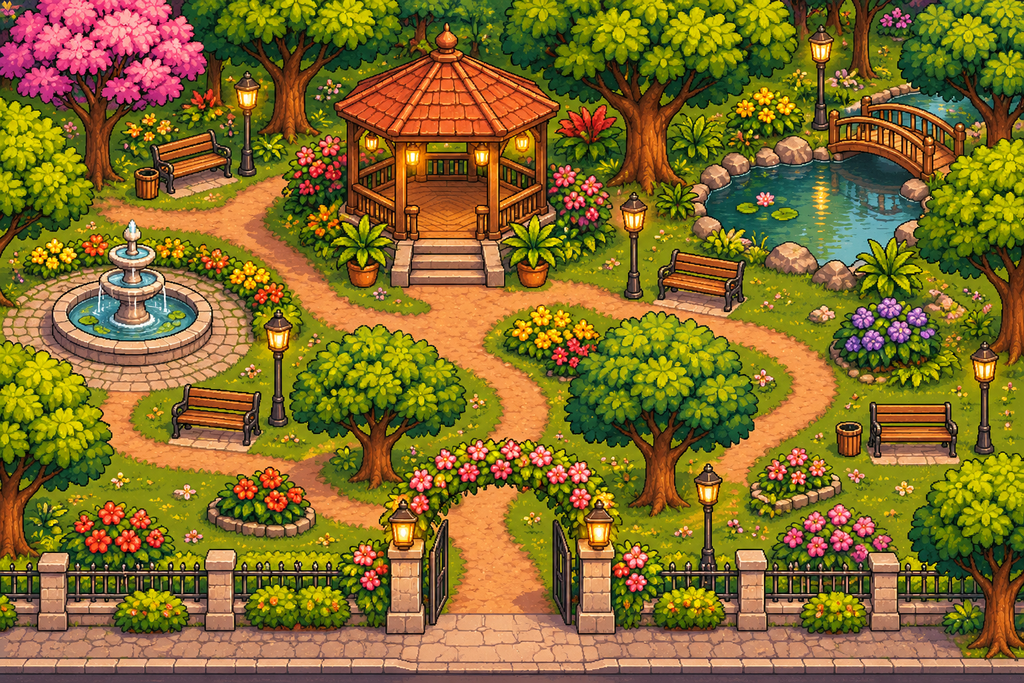
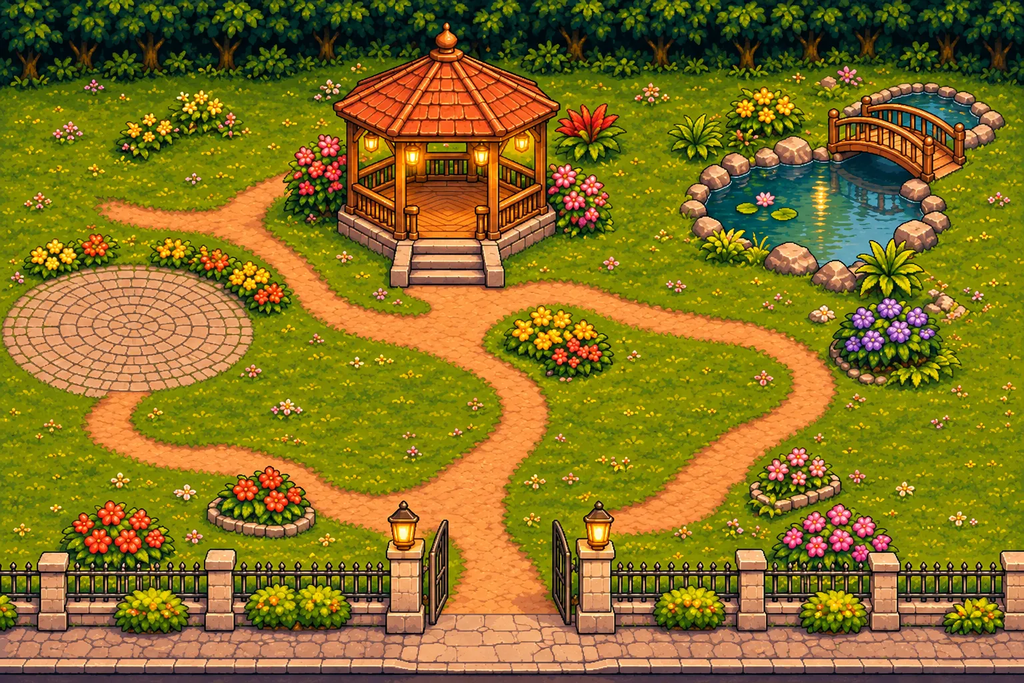
Parque v2: cenário vazio + objetos da folha
- Árvores (translúcidas atrás), ipê, postes, bancos, lixeiras, chafariz, arco de flores
  e vasos da escadinha como objetos com profundidade fixa; bloqueios medidos no fundo novo
- Bancos: o banco solto some enquanto o casal está sentado (sem banco duplicado)
- Cena do beijo e gatilhos da chuva/coreto ajustados ao coreto novo
- Backup da v1 em backups/parque-v1/

Claude-Session: https://claude.ai/code/session_01PDyLU6Huw5amytFREh1vA2

diff --git a/src/regions/piabeta/parque.map.ts b/src/regions/piabeta/parque.map.ts
@@ -8,7 +8,7 @@ const Q = 'pia-m3';
 const objDone = (o: string) => QuestSystem.isObjectiveDone(Q, o);
 const objActive = (o: string) => QuestSystem.isActive(Q) && !objDone(o);
 
-/** Retângulo no cenário ORIGINAL (art-source/maps/piabeta-parque.png, 1536x1024). 48 px = 1 tile. */
+/** Retângulo no cenário ORIGINAL (art-source/maps/piabeta-parque-base.webp, 1536x1024). 48 px = 1 tile. */
 const R = (x0: number, y0: number, x1: number, y1: number): TileRect => ({ x: x0 / 48, y: y0 / 48, w: (x1 - x0) / 48, h: (y1 - y0) / 48 });
 
 const scripts: Record<string, Script> = {
@@ -55,8 +55,8 @@ const scripts: Record<string, Script> = {
     await ctx.fadeOut(300);
     ctx.follow('weng', false);
     // dentro do coreto, no piso, entre as colunas da frente
-    ctx.place('player', 12.75, 5.85, 'right');
-    ctx.place('weng', 14.35, 5.85, 'left');
+    ctx.place('player', 13.0, 5.85, 'right');
+    ctx.place('weng', 14.0, 5.85, 'left');
     ctx.scale('player', 0.86);
     ctx.scale('weng', 0.86);
     await ctx.fadeIn(500);
@@ -81,7 +81,7 @@ const scripts: Record<string, Script> = {
       await ctx.choose('bella', '(...)', ['"Pode."', 'Responder com um sorriso']);
     }
 
-    await Promise.all([ctx.move('player', 13.22, 5.85, 12), ctx.move('weng', 13.83, 5.85, 12)]);
+    await Promise.all([ctx.move('player', 13.3, 5.85, 12), ctx.move('weng', 13.72, 5.85, 12)]);
     ctx.face('player', 'right');
     ctx.face('weng', 'left');
     await ctx.focus(13.5, 4.7, 2.1, 2200);
@@ -160,16 +160,16 @@ const scripts: Record<string, Script> = {
     await ctx.say('bella', 'Um laguinho com vitórias-régias e uma pontezinha. Esse parque pensou em tudo.');
   },
   async banco(ctx) {
-    await ctx.sit(325, 628, [['weng', 'Um banco na luz do poste. Clássico.'], ['bella', 'Clássico e perfeito.']], { key: 'bench-pq-front-lamp', x: 325, y: 668, w: 140 });
+    await ctx.sit(335, 602, [['weng', 'Um banco na luz do poste. Clássico.'], ['bella', 'Clássico e perfeito.']], { key: 'bench-pq-front-lamp', x: 335, y: 642, w: 150 });
   },
   async banco2(ctx) {
-    await ctx.sit(1052, 424, [['bella', 'Olha o laguinho daqui. Dá pra ouvir os sapos.'], ['weng', 'Eles tão cantando pra gente.']], { key: 'bench-pq-ang-l', x: 1052, y: 466, w: 135 });
+    await ctx.sit(1105, 438, [['bella', 'Olha o laguinho daqui. Dá pra ouvir os sapos.'], ['weng', 'Eles tão cantando pra gente.']], { key: 'bench-pq-front-lamp', x: 1105, y: 478, w: 150 });
   },
   async banco3(ctx) {
-    await ctx.sit(1367, 655, [['weng', 'Se eu pudesse, parava o tempo agora.'], ['bella', '...Eu também.']], { key: 'bench-pq-front-bin', x: 1343, y: 686, w: 185 });
+    await ctx.sit(1350, 632, [['weng', 'Se eu pudesse, parava o tempo agora.'], ['bella', '...Eu também.']], { key: 'bench-pq-front-lamp', x: 1350, y: 672, w: 150 });
   },
   async banco4(ctx) {
-    await ctx.sit(275, 262, [['bella', 'O barulhinho do chafariz é tão calmo.'], ['weng', 'Você também me deixa calmo. Mesmo nervoso.']], { key: 'bench-pq-ang-r', x: 285, y: 294, w: 128 });
+    await ctx.sit(330, 260, [['bella', 'O barulhinho do chafariz é tão calmo.'], ['weng', 'Você também me deixa calmo. Mesmo nervoso.']], { key: 'bench-pq-front-lamp', x: 330, y: 300, w: 150 });
   },
   async weng(ctx) {
     if (objActive('passear')) await ctx.say('weng', 'Vamos seguindo o caminho, pro meio do parque.');
@@ -190,110 +190,90 @@ export const parqueMap: MapDef = {
   legend: { '.': T.GRASS },
   ground: Array.from({ length: 22 }, () => '.'.repeat(32)),
 
+  // v2: cenário vazio (art-source/maps/piabeta-parque-base.webp) + objetos da folha (objects/prq-*).
+  // Versão anterior (cenário pintado inteiro com recortes) em backups/parque-v1/.
   blocks: [
-    // fundo de árvores + bordas (só o necessário; as copas ficam por cima)
-    R(0, 0, 1536, 150),
-    R(0, 150, 40, 385),
-    R(1500, 480, 1536, 690),
-    R(0, 1005, 1536, 1100),
-    // pilares do portão e as folhas do portão abertas
-    R(576, 788, 640, 952),
-    R(860, 788, 930, 952),
-    R(640, 770, 678, 945),
-    R(826, 770, 860, 945),
-    // pés do arco de flores (a passagem do meio fica livre)
-    R(560, 724, 668, 790),
-    R(832, 724, 935, 790),
-    // grade da frente (portão em x 650–830)
-    R(0, 830, 650, 925),
-    R(830, 830, 1536, 925),
-    // coreto: telhado/interior (só a cena do beijo entra) e laterais
-    R(505, 150, 840, 338), // coreto inteiro (piso e guarda-corpo); só a cena do beijo entra
-    R(505, 180, 555, 400),
-    R(790, 180, 840, 400),
-    R(495, 330, 598, 410),
-    R(752, 330, 852, 410),
-    R(428, 240, 505, 332), // flores à esquerda do coreto
-    R(842, 262, 910, 342), // flores à direita do coreto
-    // canto superior esquerdo: ipê (tronco), banco, lixeira, poste
-    R(130, 230, 180, 290),
-    R(200, 235, 350, 290),
-    R(355, 225, 392, 265),
-    // chafariz: só a metade da frente da bacia (dá pra passar por trás)
-    R(80, 432, 318, 546), // bacia inteira do chafariz (passa-se por trás dela, não dentro da água)
-    R(0, 580, 95, 622), // moita à esquerda do chafariz
-    // lago e ponte: dá pra subir na ponte; a água e as pedras bloqueiam
-    R(1040, 150, 1245, 250),
-    R(1240, 150, 1452, 212), // corrimão de trás da ponte
-    R(1040, 250, 1400, 372),
-    R(1180, 372, 1255, 420), // pedras da margem
-    R(1300, 372, 1378, 430), // samambaia
-    R(1455, 420, 1520, 480), // tronco da árvore do lago
-    // grama debaixo das copas das duas árvores do meio (não tem caminho ali: ninguém fica "dentro" da árvore)
-    R(470, 520, 680, 700),
-    R(880, 500, 1110, 700),
-    // postes
-    R(395, 600, 440, 640),
-    R(930, 410, 968, 448),
-    R(1460, 640, 1500, 682),
-    R(1040, 820, 1080, 862),
-    // bancos e lixeira
-    R(255, 625, 395, 665),
-    R(985, 420, 1120, 460),
-    R(1300, 640, 1435, 680),
-    R(1250, 630, 1292, 682),
-    // canteiros: do topo das flores (+25) até a borda de baixo
-    R(1255, 470, 1405, 553),
-    R(765, 482, 895, 543),
-    R(326, 748, 460, 792),
-    R(1134, 736, 1256, 762),
-    R(1166, 806, 1300, 830),
-    R(92, 765, 260, 828),
-    // árvores: só o tronco é sólido (a copa fica por cima, translúcida)
-    R(528, 690, 594, 732),
-    R(946, 722, 1014, 768),
-    R(0, 718, 64, 818),
-    R(0, 772, 182, 830), // moita embaixo da árvore do canto
+    R(0, 0, 1536, 115), // árvores do fundo
+    // coreto: plataforma inteira (só a cena do beijo entra; a escadinha fica livre)
+    R(500, 115, 842, 345),
+    R(500, 300, 598, 372),
+    R(752, 300, 842, 372),
+    R(425, 215, 520, 335), // flores dos lados do coreto
+    R(830, 165, 925, 350),
+    // lago, pedras, ponte e plantas da beira
+    R(1000, 115, 1500, 400),
+    R(1140, 380, 1310, 415),
+    R(1285, 380, 1390, 440),
+    R(1250, 482, 1420, 570),
+    // canteiros
+    R(175, 172, 360, 235),
+    R(35, 370, 180, 410),
+    R(225, 375, 435, 465),
+    R(755, 482, 920, 570),
+    R(310, 738, 470, 800),
+    R(90, 778, 250, 850),
+    R(1125, 702, 1260, 765),
+    R(1160, 778, 1340, 850),
+    // grade, pilares e folhas do portão, calçada
+    R(0, 835, 640, 945),
+    R(860, 835, 1536, 945),
+    R(640, 790, 680, 935),
+    R(825, 780, 860, 935),
+    R(0, 1000, 1536, 1100),
+    // chafariz (bacia)
+    R(62, 470, 322, 592),
+    // troncos das árvores
+    R(84, 302, 136, 330),
+    R(424, 662, 476, 690),
+    R(959, 637, 1011, 665),
+    R(1464, 572, 1516, 600),
+    R(9, 742, 61, 770),
+    // postes, bancos, lixeiras e vasos da escadinha
+    R(398, 549, 422, 565),
+    R(953, 429, 977, 445),
+    R(1438, 674, 1462, 690),
+    R(1073, 814, 1097, 830),
+    R(238, 304, 262, 320),
+    R(263, 608, 407, 642),
+    R(1033, 444, 1177, 478),
+    R(1278, 638, 1422, 672),
+    R(258, 266, 402, 300),
+    R(1235, 644, 1275, 668),
+    R(405, 274, 445, 298),
+    R(545, 395, 605, 428),
+    R(740, 395, 800, 428),
   ],
 
+  // Objetos: x = centro, y = base (px da arte original). Profundidade fixa na base.
+  objects: [
+    { key: 'prq-ipe', x: 110, y: 330, w: 260, fade: true, shadow: 0.55 },
+    { key: 'prq-arvore', x: 450, y: 690, w: 290, fade: true, shadow: 0.55 },
+    { key: 'prq-arvore2', x: 985, y: 665, w: 240, fade: true, shadow: 0.55 },
+    { key: 'prq-arvore', x: 1490, y: 600, w: 260, fade: true, shadow: 0.55 },
+    { key: 'prq-arvore2', x: 35, y: 770, w: 220, fade: true, shadow: 0.55 },
+    { key: 'prq-poste', x: 410, y: 565, w: 60, shadow: 0.5 },
+    { key: 'prq-poste', x: 965, y: 445, w: 60, shadow: 0.5 },
+    { key: 'prq-poste', x: 1450, y: 690, w: 60, shadow: 0.5 },
+    { key: 'prq-poste', x: 1085, y: 830, w: 60, shadow: 0.5 },
+    { key: 'prq-poste', x: 250, y: 320, w: 60, shadow: 0.5 },
+    { key: 'prq-banco', x: 335, y: 642, w: 150, shadow: 0.9 },
+    { key: 'prq-banco', x: 1105, y: 478, w: 150, shadow: 0.9 },
+    { key: 'prq-banco', x: 1350, y: 672, w: 150, shadow: 0.9 },
+    { key: 'prq-banco', x: 330, y: 300, w: 150, shadow: 0.9 },
+    { key: 'prq-lixeira', x: 1255, y: 668, w: 44, shadow: 0.9 },
+    { key: 'prq-lixeira', x: 425, y: 298, w: 44, shadow: 0.9 },
+    { key: 'prq-vaso', x: 575, y: 428, w: 70, shadow: 0.7 },
+    { key: 'prq-vaso', x: 770, y: 428, w: 70, shadow: 0.7, flip: true },
+    { key: 'prq-chafariz', x: 192, y: 594, w: 270, shadow: false },
+    // arco de flores logo depois do portão: translúcido quando alguém passa por baixo
+    { key: 'prq-arco', x: 752, y: 810, w: 300, fade: true, shadow: false },
+  ],
+
+  // Cena do beijo: pilastras da frente e telhado do coreto por cima dos dois
   overlays: [
-    // pilares e lampiões do portão
-    { x0: 576, y0: 740, x1: 640, y1: 952, base: 950 },
-    { x0: 860, y0: 740, x1: 930, y1: 952, base: 950 },
-    // copas das árvores: na frente de quem está atrás do tronco, translúcidas
-    { x0: 430, y0: 490, x1: 725, y1: 760, base: 760, cut: 'foliage', fade: true, tall: true },
-    { x0: 905, y0: 480, x1: 1135, y1: 790, base: 790, cut: 'foliage', fade: true, tall: true },
-    { x0: 835, y0: 550, x1: 905, y1: 790, base: 790, cut: 'foliage', fade: true, tall: true },
-    { x0: 0, y0: 500, x1: 195, y1: 832, base: 830, cut: 'foliage', fade: true, tall: true },
-    { x0: 1360, y0: 150, x1: 1536, y1: 480, base: 480, cut: 'foliage', fade: true, tall: true }, // árvore do lago
-    // canteiros: as flores ficam na frente de quem passa atrás
-    { x0: 1248, y0: 440, x1: 1412, y1: 556, base: 554, cut: 'foliage', fade: true },
-    { x0: 758, y0: 455, x1: 902, y1: 546, base: 544, cut: 'foliage', fade: true },
-    { x0: 314, y0: 672, x1: 470, y1: 798, base: 794, cut: 'outline', fade: true },
-    { x0: 1120, y0: 664, x1: 1266, y1: 768, base: 764, cut: 'outline', fade: true },
-    { x0: 1150, y0: 748, x1: 1314, y1: 834, base: 832, cut: 'outline', fade: true },
-    { x0: 85, y0: 742, x1: 266, y1: 832, base: 830, cut: 'foliage', fade: true },
-    { x0: 422, y0: 205, x1: 508, y1: 334, base: 332, cut: 'foliage', fade: true },
-    { x0: 838, y0: 225, x1: 912, y1: 344, base: 342, cut: 'foliage', fade: true },
-    { x0: 0, y0: 520, x1: 112, y1: 624, base: 622, cut: 'foliage', fade: true },
-    // chafariz: bacia (oval) e a parte de cima (coluna)
-    { x0: 72, y0: 312, x1: 322, y1: 556, base: 548, cut: 'outline' }, // chafariz inteiro pelo contorno
-    // ponte: fatiada (o corrimão da frente passa na frente das pernas de quem está nela)
-    { x0: 1238, y0: 140, x1: 1452, y1: 274, base: 272, cut: 'furniture', slice: true },
-    // postes (só a haste)
-    { x0: 396, y0: 470, x1: 440, y1: 640, base: 640, cut: 'column', tall: true },
-    { x0: 928, y0: 290, x1: 970, y1: 448, base: 448, cut: 'column', tall: true },
-    { x0: 1456, y0: 512, x1: 1502, y1: 682, base: 682, cut: 'column', tall: true },
-    { x0: 1038, y0: 700, x1: 1084, y1: 862, base: 862, cut: 'column', tall: true },
-    // arco de flores inteiro (pés e topo), translúcido quando alguém passa por baixo
-    { x0: 550, y0: 630, x1: 945, y1: 792, base: 792, cut: 'foliage', fade: true, tall: true, fadeX: [668, 832] },
-    // pilastras e guarda-corpo da frente do coreto, na frente dos dois durante a cena do beijo
-    { x0: 589, y0: 205, x1: 612, y1: 362, base: 3000, when: () => QuestSystem.isObjectiveDone(Q, 'abrigo') && !QuestSystem.isObjectiveDone(Q, 'beijo') },
-    { x0: 605, y0: 300, x1: 630, y1: 362, base: 3000, when: () => QuestSystem.isObjectiveDone(Q, 'abrigo') && !QuestSystem.isObjectiveDone(Q, 'beijo') },
-    { x0: 729, y0: 205, x1: 754, y1: 362, base: 3000, when: () => QuestSystem.isObjectiveDone(Q, 'abrigo') && !QuestSystem.isObjectiveDone(Q, 'beijo') },
-    { x0: 711, y0: 300, x1: 736, y1: 362, base: 3000, when: () => QuestSystem.isObjectiveDone(Q, 'abrigo') && !QuestSystem.isObjectiveDone(Q, 'beijo') },
-    // telhado do coreto por cima das cabeças, só na cena do beijo
-    { x0: 505, y0: 25, x1: 840, y1: 206, base: 3000, when: () => QuestSystem.isObjectiveDone(Q, 'abrigo') && !QuestSystem.isObjectiveDone(Q, 'beijo') },
+    { x0: 590, y0: 200, x1: 627, y1: 360, base: 3000, when: () => QuestSystem.isObjectiveDone(Q, 'abrigo') && !QuestSystem.isObjectiveDone(Q, 'beijo') },
+    { x0: 710, y0: 200, x1: 748, y1: 360, base: 3000, when: () => QuestSystem.isObjectiveDone(Q, 'abrigo') && !QuestSystem.isObjectiveDone(Q, 'beijo') },
+    { x0: 500, y0: 25, x1: 845, y1: 205, base: 3000, when: () => QuestSystem.isObjectiveDone(Q, 'abrigo') && !QuestSystem.isObjectiveDone(Q, 'beijo') },
   ],
 
   // Noite (o passeio é depois do lanche): véu escuro + postes e lanternas acesos
@@ -301,43 +281,46 @@ export const parqueMap: MapDef = {
     darkness: 0.6,
     when: () => !QuestSystem.isActive('dq-e2'),
     lights: [
-      { x: 416, y: 508, r: 230 },
-      { x: 959, y: 334, r: 230 },
-      { x: 1063, y: 740, r: 230 },
-      { x: 1473, y: 556, r: 230 },
-      { x: 605, y: 797, r: 180 },
-      { x: 897, y: 797, r: 180 },
-      { x: 616, y: 240, r: 150 },
-      { x: 730, y: 241, r: 150 },
+      { x: 410, y: 340, r: 230 },
+      { x: 965, y: 220, r: 230 },
+      { x: 1450, y: 465, r: 230 },
+      { x: 1085, y: 605, r: 230 },
+      { x: 250, y: 95, r: 230 },
+      { x: 607, y: 780, r: 170 },
+      { x: 897, y: 775, r: 170 },
+      { x: 555, y: 215, r: 140 },
+      { x: 620, y: 230, r: 140 },
+      { x: 720, y: 230, r: 140 },
+      { x: 785, y: 210, r: 140 },
     ],
   },
 
   hotspots: [
     {
-      rect: R(0, 925, 70, 1005),
+      rect: R(0, 940, 70, 1000),
       interact: 'placaMex',
       label: '← Restaurante',
       marker: { x: 0.6, y: -0.2, dir: 'left' },
       markerIf: () => QuestSystem.isActive('dq-e2') && QuestSystem.isObjectiveDone('dq-e2', 'passeio') && !QuestSystem.isObjectiveDone('dq-e2', 'mexicano'),
     },
-    { rect: R(505, 30, 840, 432), interact: 'coreto', label: 'Coreto', markerIf: () => objActive('abrigo') && objDone('passear') },
-    { rect: R(80, 380, 380, 560), interact: 'chafariz', label: 'Chafariz' },
-    { rect: R(1040, 130, 1400, 400), interact: 'lago', label: 'Lago' },
-    { rect: R(255, 575, 395, 665), interact: 'banco', label: 'Sentar' },
-    { rect: R(985, 370, 1120, 460), interact: 'banco2', label: 'Sentar' },
-    { rect: R(1300, 600, 1435, 690), interact: 'banco3', label: 'Sentar' },
-    { rect: R(200, 205, 350, 295), interact: 'banco4', label: 'Sentar' },
+    { rect: R(500, 30, 842, 430), interact: 'coreto', label: 'Coreto', markerIf: () => objActive('abrigo') && objDone('passear') },
+    { rect: R(60, 330, 325, 595), interact: 'chafariz', label: 'Chafariz' },
+    { rect: R(1020, 130, 1490, 400), interact: 'lago', label: 'Lago' },
+    { rect: R(260, 562, 410, 642), interact: 'banco', label: 'Sentar' },
+    { rect: R(1030, 398, 1180, 478), interact: 'banco2', label: 'Sentar' },
+    { rect: R(1275, 592, 1425, 672), interact: 'banco3', label: 'Sentar' },
+    { rect: R(255, 220, 405, 300), interact: 'banco4', label: 'Sentar' },
   ],
 
   // quem vem de Fragoso chega pela calçada da DIREITA; o restaurante mexicano fica pra ESQUERDA
   spawns: {
-    'from-rota66': { tx: 30.4, ty: 20.0, facing: 'left' },
-    'from-mexicano': { tx: 1.6, ty: 20.0, facing: 'right' },
+    'from-rota66': { tx: 30.4, ty: 19.4, facing: 'left' },
+    'from-mexicano': { tx: 1.6, ty: 19.4, facing: 'right' },
   },
   exits: [
-    { rect: R(1515, 925, 1536, 1005), toMap: 'piabeta-fragoso', toSpawn: 'from-parque' },
+    { rect: R(1515, 945, 1536, 1000), toMap: 'piabeta-fragoso', toSpawn: 'from-parque' },
     {
-      rect: R(0, 925, 22, 1005),
+      rect: R(0, 945, 22, 1000),
       toMap: 'piabeta-mexicano-fora',
       toSpawn: 'from-parque',
       blockedIf: () => (QuestSystem.isDone('pia-m3') ? false : 'Hoje o caminho é outro.'),
@@ -346,14 +329,14 @@ export const parqueMap: MapDef = {
   triggers: [
     {
       id: 'chuva',
-      rect: R(580, 470, 940, 610),
+      rect: R(600, 470, 900, 610),
       script: 'chuva',
       once: true,
       enabledIf: () => objActive('passear'),
     },
     {
       id: 'beijo',
-      rect: R(560, 285, 790, 395),
+      rect: R(600, 345, 755, 415),
       script: 'beijo',
       once: true,
       enabledIf: () => objDone('passear') && objActive('abrigo'),

diff --git a/src/systems/ScriptRunner.ts b/src/systems/ScriptRunner.ts
@@ -391,6 +391,7 @@ export function createScriptContext(scene: GameScene): ScriptContext {
       // Com o Weng junto e arte do casal no banco: um sprite só, cobrindo o banco pintado.
       let pair: Phaser.GameObjects.Sprite | null = null;
       let pairTimer: Phaser.Time.TimerEvent | null = null;
+      let hiddenBench: Phaser.GameObjects.Image[] = [];
       if (withWeng && couple && scene.textures.exists(couple.key)) {
         pl.setVisible(false);
         weng!.stopFollowing();
@@ -400,6 +401,9 @@ export function createScriptContext(scene: GameScene): ScriptContext {
         const BENCH_W: Record<string, number> = { 'bench-pq-ang-r': 150, 'bench-pq-front-lamp': 166, 'bench-pq-ang-l': 139, 'bench-pq-front-bin': 185, 'bench-rua': 166, 'bench-rua-bin': 185 };
         const sc = couple.w && BENCH_W[couple.key] ? couple.w / 3 / BENCH_W[couple.key] : 1 / RENDER_SCALE;
         pair = scene.add.sprite(couple.x / 3, couple.y / 3, couple.key, 0).setOrigin(0.5, 1).setScale(sc);
+        // banco solto (objeto da folha) embaixo do casal: some enquanto eles estão sentados
+        hiddenBench = scene.built.overlays.filter((o) => o.img.texture.key.includes('banco') && o.img.visible && o.rect.contains(couple.x / 3, couple.y / 3 - 4)).map((o) => o.img);
+        hiddenBench.forEach((img) => img.setVisible(false));
         pair.setDepth(couple.y / 3 + 60);
         // as poses da folha foram desenhadas separadas (cabelo muda de um quadro pro outro):
         // fica a pose principal, respirando de leve, com coraçõezinhos subindo de vez em quando
@@ -447,6 +451,7 @@ export function createScriptContext(scene: GameScene): ScriptContext {
       if (pair) {
         pairTimer?.remove();
         pair.destroy();
+        hiddenBench.forEach((img) => img.setVisible(true));
         pl.setVisible(true);
         weng!.setVisible(true);
       }

diff --git a/src/config/assetManifest.ts b/src/config/assetManifest.ts
@@ -72,6 +72,10 @@ export const ASSETS: AssetEntry[] = [
   ),
 
   // Casal sentado no banco (4 quadros 200x150: normal, piscando, expressão, normal)
+  // Parque v2: objetos recortados da folha
+  ...['arvore', 'arvore2', 'ipe', 'poste', 'banco', 'lixeira', 'chafariz', 'arco', 'vaso', 'coreto'].map(
+    (n, i): AssetEntry => ({ id: `OBJ-PRQ-${i}`, key: `prq-${n}`, file: `assets/objects/prq-${n}.png`, kind: 'image' }),
+  ),
   // Fragoso v2: objetos recortados da folha
   ...['poste', 'arvore', 'bananeira', 'moitas', 'moita', 'flores', 'gato', 'poste2'].map(
     (n, i): AssetEntry => ({ id: `OBJ-FRG-${i}`, key: `frg-${n}`, file: `assets/objects/frg-${n}.png`, kind: 'image' }),

diff --git a/docs/ASSET_MANIFEST.md b/docs/ASSET_MANIFEST.md
@@ -191,5 +191,5 @@ Ordem: gerar primeiro a base (anexando a Rota 66 atual como referência de estil
 | NPC-004L | Atendente da Rota 66 limpando (2 linhas x 4 quadros, fundo magenta) | npcs/atendente-limpando.png | descartado (atendente fica parada no balcão) |
 | MAP-021 | Fragoso vazio (ruas, calçadas, casas, muros, sem postes/árvore do meio/bananeira/gato) | maps/piabeta-fragoso-base.webp | ✅ no jogo |
 | OBJ-FRG | Folha de objetos de Fragoso (8 objetos em fundo magenta) | objects/fragoso-folha.webp → objects/frg-*.png | ✅ no jogo |
-| MAP-022 | Parque vazio (caminhos, coreto, lago, ponte, praça redonda sem chafariz, grade) | maps/piabeta-parque-base.png | pedido |
-| OBJ-PRQ | Folha de objetos do parque (9 objetos em fundo magenta) | objects/parque-folha.png | pedido |
+| MAP-022 | Parque vazio (caminhos, coreto, lago, ponte, praça redonda sem chafariz, grade) | maps/piabeta-parque-base.webp | ✅ no jogo |
+| OBJ-PRQ | Folha de objetos do parque (9 objetos + coreto) | objects/parque-folha.webp → objects/prq-*.png | ✅ no jogo |
